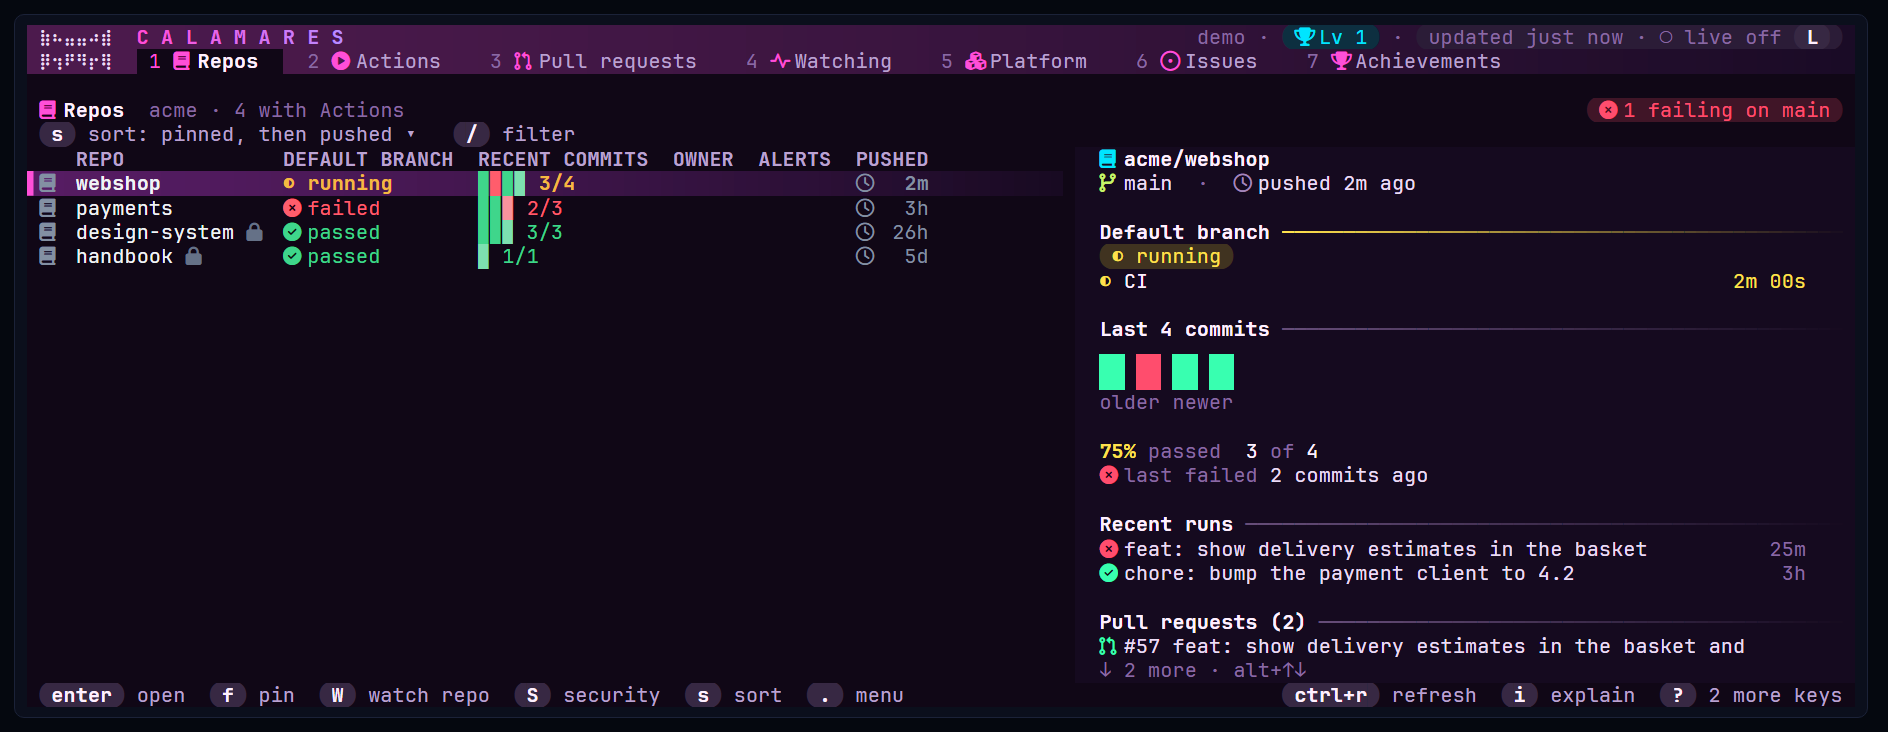
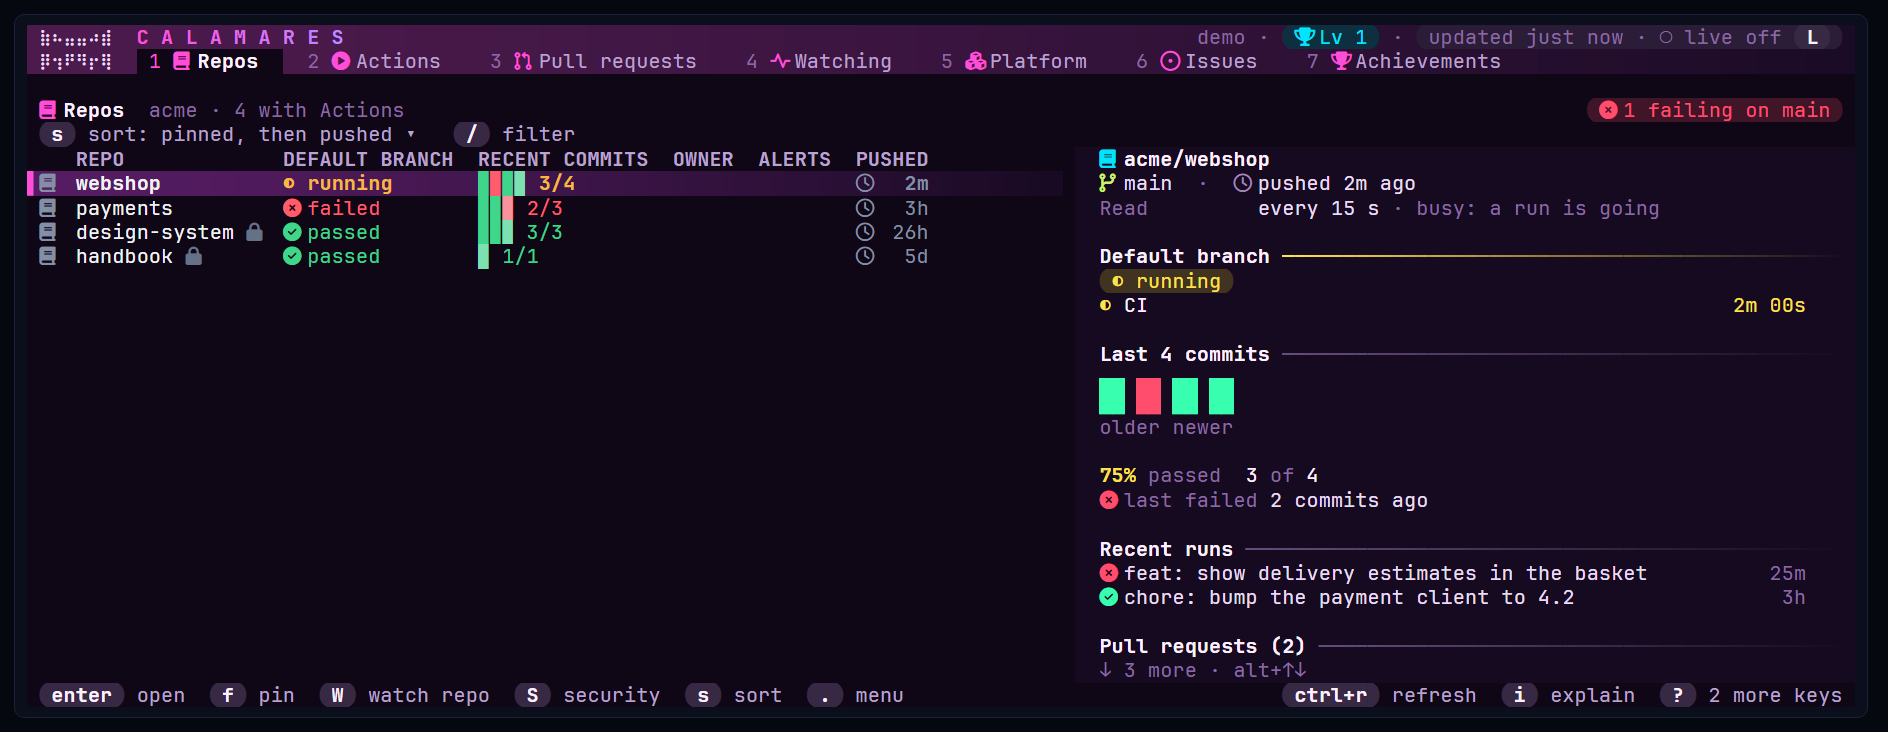
docs: retake the screenshots; name the search queries again
The search for your issues lost its operation name (MyIssues) when it learnt
to page; the name is back, and the one for your pull requests has one too.
The screenshots show the repo panel's new Read field.

diff --git a/internal/gh/mine.go b/internal/gh/mine.go
@@ -30,11 +30,12 @@ type searchPage[T any] struct {
 	Nodes []T `json:"nodes"`
 }
 
-// mineQuery asks for the first page of each search in one request, with
-// fragment (named fragName) for each node, and extra fields at the top.
-func mineQuery(searches []mineSearch, fragName, fragment, extra string) string {
+// mineQuery is the query named name that asks for the first page of each
+// search in one request, with fragment (named fragName) for each node, and
+// extra fields at the top.
+func mineQuery(name string, searches []mineSearch, fragName, fragment, extra string) string {
 	var b strings.Builder
-	b.WriteString("query {\n" + extra)
+	b.WriteString("query " + name + " {\n" + extra)
 	for _, s := range searches {
 		fmt.Fprintf(&b, "  %s: search(query: %q, type: ISSUE, first: %d) { issueCount pageInfo { hasNextPage endCursor } nodes { ...%s } }\n",
 			s.alias, s.query, minePage, fragName)
@@ -47,7 +48,7 @@ func mineQuery(searches []mineSearch, fragName, fragment, extra string) string {
 // that fails leaves what was read before it, counted as more.
 func readRest[T any](ctx context.Context, c *Client, search mineSearch, fragName, fragment string, first searchPage[T]) (nodes []T, more bool) {
 	nodes = first.Nodes
-	query := `query($q: String!, $after: String!, $n: Int!) {
+	query := `query SearchPage($q: String!, $after: String!, $n: Int!) {
   search(query: $q, type: ISSUE, first: $n, after: $after) { issueCount pageInfo { hasNextPage endCursor } nodes { ...` + fragName + ` } }
 }
 ` + fragment

diff --git a/internal/gh/pulls.go b/internal/gh/pulls.go
@@ -140,7 +140,7 @@ var myPRSearches = []mineSearch{
 	{"involved", "is:pr is:open involves:@me archived:false sort:updated-desc"},
 }
 
-var myPRsQuery = mineQuery(myPRSearches, "pr", prFields, "")
+var myPRsQuery = mineQuery("MyPullRequests", myPRSearches, "pr", prFields, "")
 
 // MyPullRequests returns the open pull requests that concern you: those
 // waiting for your review, then yours, then others you're involved in.

diff --git a/internal/gh/issues.go b/internal/gh/issues.go
@@ -85,7 +85,7 @@ var myIssueSearches = []mineSearch{
 	{"mentioned", "is:issue is:open mentions:@me archived:false sort:updated-desc"},
 }
 
-var myIssuesQuery = mineQuery(myIssueSearches, "issue", issueFields, "  viewer { login }\n")
+var myIssuesQuery = mineQuery("MyIssues", myIssueSearches, "issue", issueFields, "  viewer { login }\n")
 
 type issueNode struct {
 	ID          string    `json:"id"`
